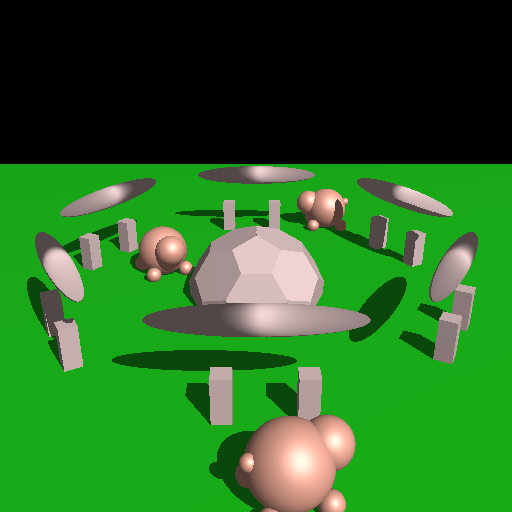
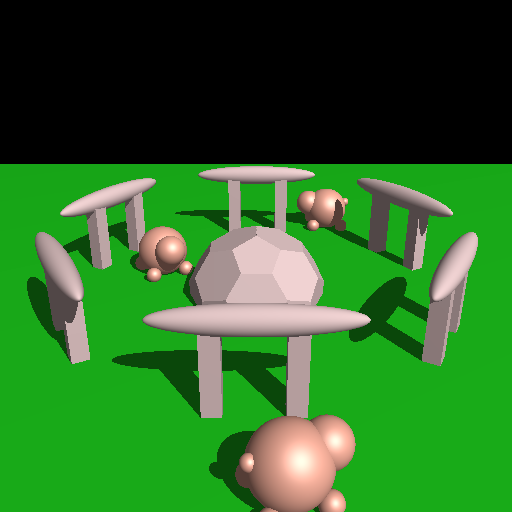
fix normal trans

Changed region(s): [[0.2812, 0.3438, 0.9375, 0.8438], [0.0625, 0.3438, 0.3125, 0.75], [0.375, 0.3125, 0.625, 0.4688]]

diff --git a/cs488/A4/A4.cpp b/cs488/A4/A4.cpp
@@ -50,15 +50,10 @@ void A4_Render_rec(
 ) {
 
   // Fill in raytracing code here...
-	//if ( root -> m_nodeType == NodeType::GeometryNode ){
-		// GeometryNode * gnode = static_cast<GeometryNode *>(root);
-		// Primitive *prim = gnode->m_primitive;
-		// PhongMaterial * mat = static_cast<PhongMaterial *>(gnode->m_material);
-		//cout << "gnode->m_material: " << glm::to_string(mat->m_kd) << endl;
-		// generate rays
 		vec3 right = glm::normalize(glm::cross(view, up));
 		vec3 ray_dir = vec3(1.0);
 		vec3 normal;
+		vec3 intersection;
 		GeometryNode *obj;
 		double w = image.width();
 		double h = image.height();
@@ -70,12 +65,11 @@ void A4_Render_rec(
 					pixsize_over_d + view;
 				ray_dir = glm::normalize(ray_dir);
 				t = HUGE_VAL;
-				A4_Render_pixel_rec (root, eye, ray_dir, &t, &normal, mat4(1.0), mat4(1.0), &obj);
+				A4_Render_pixel_rec (root, eye, ray_dir, &t, &normal, mat4(1.0), mat4(1.0), &intersection, &obj);
 				// if intersect object
 				if (t < HUGE_VAL) {
 						// get color
-						vec3 intersection = eye + t*ray_dir;
-						vec3 color = getColor(root, intersection, normal,
+						vec3 color = getColor(root, eye+t*ray_dir, normal,
 							ambient, lights, ray_dir, obj->m_material);
 						for (int k = 0; k < 3; k++) {
 								image((uint)i, (uint)j, k) = color[k];
@@ -94,14 +88,13 @@ void A4_Render_pixel_rec(
 		const glm::vec3 & ray_dir,
 		double *t,
 		vec3 *n,
-		glm::mat4 T,
-		glm::mat4 T_n,
+		mat4 T,
+		mat4 T_n,
+		vec3 *intersection,
 		GeometryNode ** obj
 ) {
-	// cout << "node: " << root->m_name << endl;
-	// cout << glm::to_string(root->trans) << endl;;
 	mat4 T_new = root->invtrans * T;
-	mat4 T_n_new = T_n * root->trans;
+	mat4 T_n_new = T_n * glm::transpose(root->invtrans);
 	if ( root -> m_nodeType == NodeType::GeometryNode ){
 		GeometryNode * gnode = static_cast<GeometryNode *>(root);
 		Primitive *prim = gnode->m_primitive;
@@ -112,11 +105,12 @@ void A4_Render_pixel_rec(
 		if (intersect && t_test < *t) {
 			*t = t_test;
 			*obj = gnode;
-			*n = vec3(T_n_new * vec4(normal,0.0));
+			*n = vec3(T_n_new*vec4(normal, 0.0));
+			*intersection = start + t_test*ray_dir;
 		}
 	}
 	for (SceneNode *child : root->children) {
-		A4_Render_pixel_rec(child, start, ray_dir, t, n, T_new, T_n_new, obj);
+		A4_Render_pixel_rec(child, start, ray_dir, t, n, T_new, T_n_new, intersection, obj);
 	}
 }
 
@@ -132,6 +126,7 @@ glm::vec3 getColor (
 		vec3 to_light_dir, start, n;
 		vec3 color = vec3(0.0, 0.0, 0.0);
 		vec3 n_normal = glm::normalize(normal);
+		vec3 i;
 		double normal_light_angle;
 		double t = HUGE_VAL;
 		GeometryNode *node;
@@ -143,7 +138,7 @@ glm::vec3 getColor (
 				// test if light is blocked
 				start = intersection + EPSILON*to_light_dir;
 				t = HUGE_VAL;
-				A4_Render_pixel_rec (root, start, to_light_dir, &t, &n, mat4(1.0), mat4(1.0), &node);
+				A4_Render_pixel_rec (root, start, to_light_dir, &t, &n, mat4(1.0), mat4(1.0), &i, &node);
 
 				if (t == HUGE_VAL) {
 					// diffuse

diff --git a/cs488/A4/Primitive.hpp b/cs488/A4/Primitive.hpp
@@ -45,6 +45,7 @@ public:
   NonhierBox(const glm::vec3& pos, double size)
     : m_pos(pos), m_size(size)
   {
+    m_pos += vec3(0.5,0.5,0.5);
   }
   bool intersect(vec3 eye, vec3 ray_dir, double *t, vec3 *n);
   virtual ~NonhierBox();

diff --git a/cs488/A4/A4.hpp b/cs488/A4/A4.hpp
@@ -62,7 +62,8 @@ void A4_Render_pixel_rec(
 		const glm::vec3 & ray_dir,
 		double *t,
 		vec3 *n,
-		glm::mat4 T,
-		glm::mat4 T_n,
+		mat4 T,
+		mat4 T_n,
+		vec3 *intersection,
 		GeometryNode **obj
 );
